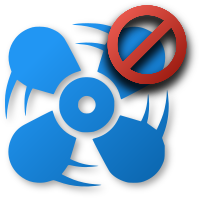
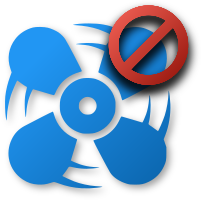
use new assets

diff --git a/src/asmcnc/core_UI/components/buttons/vacuum_button.py b/src/asmcnc/core_UI/components/buttons/vacuum_button.py
@@ -10,7 +10,7 @@ from asmcnc.core_UI.components.widgets.blinking_widget import BlinkingWidget
 
 SKAVA_UI_PATH = path_utils.get_path("skavaUI")[0]  # bug with get_path currently returns a list
 SKAVA_UI_IMG_PATH = os.path.join(SKAVA_UI_PATH, "img")
-VACUUM_ON_IMAGE = os.path.join(SKAVA_UI_IMG_PATH, "vac_on.png")
+VACUUM_ON_IMAGE = os.path.join(SKAVA_UI_IMG_PATH, "extraction_on.png")
 VACUUM_OFF_IMAGE = os.path.join(SKAVA_UI_IMG_PATH, "extraction_off.png")
 
 
